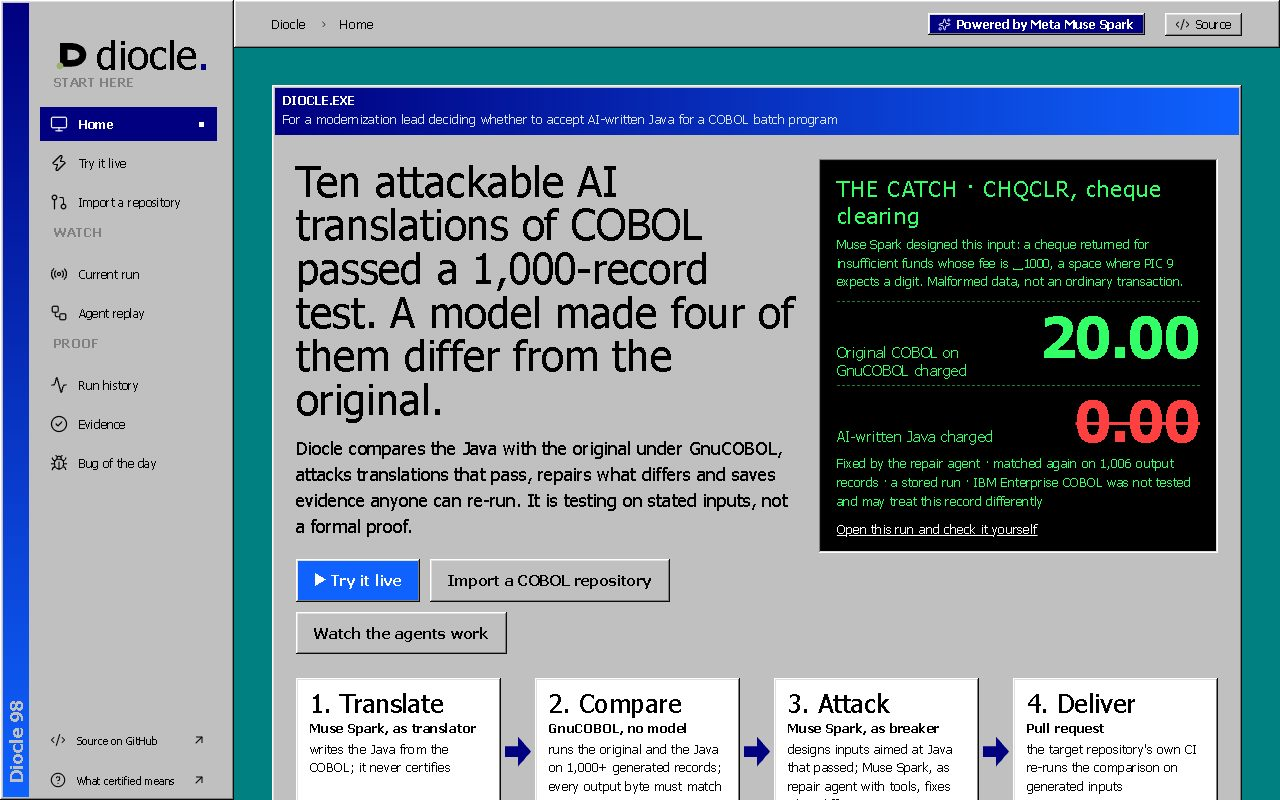
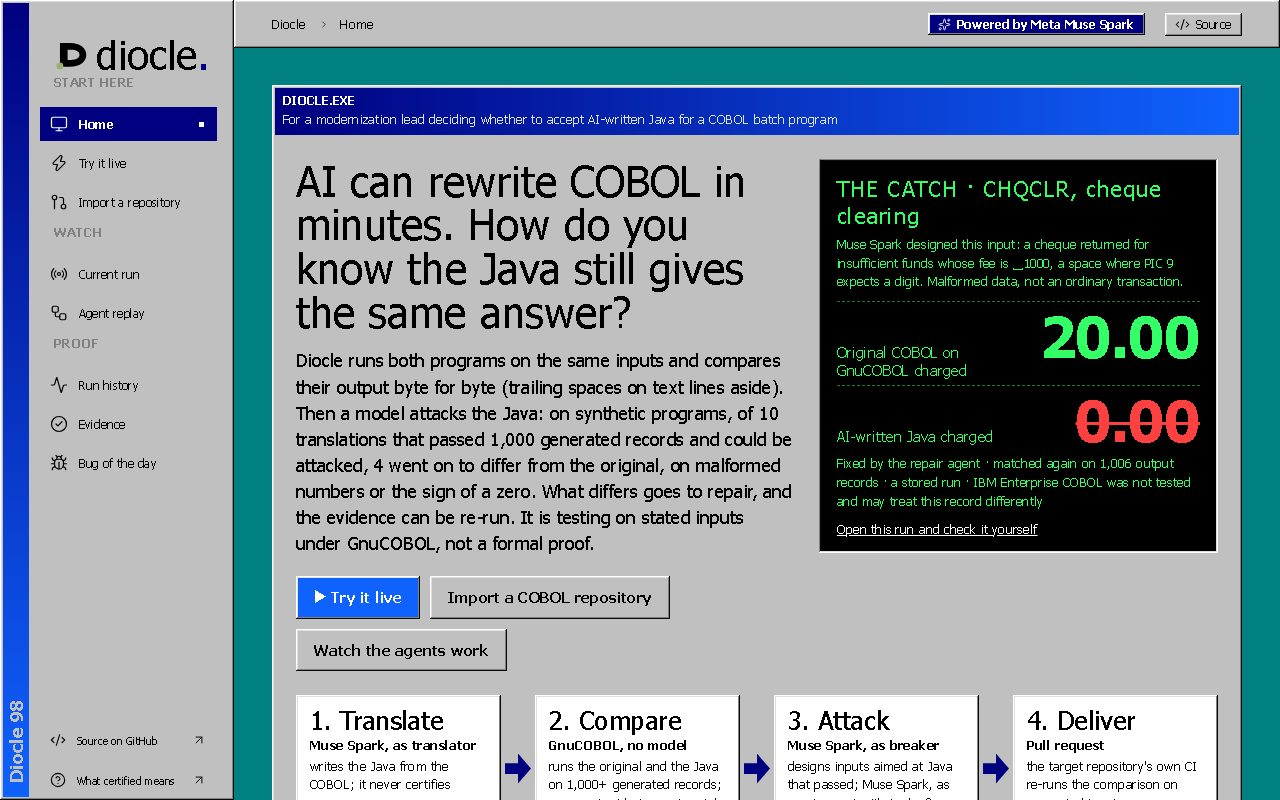
Docs: walkthrough home screenshot shows the current headline

Changed region(s): [[0.2188, 0.1875, 0.9688, 1.0]]

diff --git a/docs/HANDOFF.md b/docs/HANDOFF.md
@@ -27,7 +27,7 @@ This repository is public: never write secrets, passcodes, personal details or e
 ## Nov 3 evening: scorecard fixes, IBM compiler check dropped
 - **Done:** README front page has "Why it matters" and who benefits again (sourced, copied from DETAILS). Try page wording is plainer. META_MODELS counts re-read (83 public runs). LIVE_CHECK has a Nov 3 addendum. One printout press ($0.0571) and one local keyed run ($0.0162, `eval/results-keyed-20261103.json`). Web and docs only, no engine deploy.
 - **IBM compiler check: dropped, not installed.** The owner considered comparing GnuCOBOL with IBM COBOL for Linux on x86 (60-day trial). Its licence allows internal evaluation, testing or demonstration and says nothing on publishing results, and the participant guide disqualifies projects that violate legal policies or use assets without rights. The small gain was not worth that risk. The stated limit stands: GnuCOBOL, not IBM Enterprise COBOL. Later work: test with IBM's permission or a partner on z/OS.
-- **Pitch:** home headline, README opening and the submission's one line now lead with the question a stranger can follow, with the limits kept. Walkthrough screenshot `01-home.jpg` re-captured if the note below says so.
+- **Pitch:** home headline, README opening and the submission's one line now lead with the question a stranger can follow, with the limits kept. Walkthrough screenshot `01-home.jpg` re-captured from the live page.
 - **Owner plans to submit Nov 4, 5 PM.** Freeze deploys after that.
 
 ## Nov 3: third pass on the external estate
